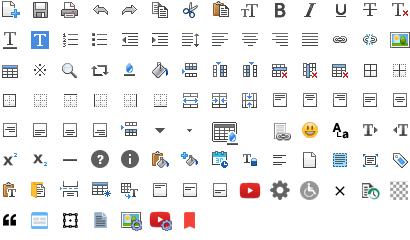
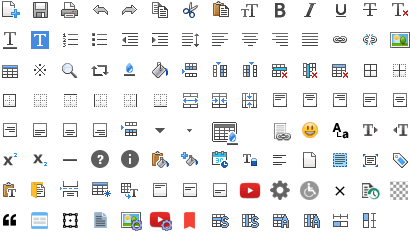
* 쿠쿠닥스 에디터 최신버전으로 업데이트 (ver1.4.30)

diff --git a/src/main/webapp/js/ezEditor/kukudocsEditor/stylesheets/style.css b/src/main/webapp/js/ezEditor/kukudocsEditor/stylesheets/style.css
@@ -159,6 +159,10 @@ body{ font-family:'Arial, MalgunGothic, AppleSDGothic'; font-size:12px; /*margin
 .kk_editor .kk_editor_toolbar .menus .menu .menu_button .i_table_merge { background-position: -180px -90px; }
 .kk_editor .kk_editor_toolbar .menus .menu .menu_button .i_table_split_col { background-position: -210px -90px; }
 .kk_editor .kk_editor_toolbar .menus .menu .menu_button .i_table_split_row { background-position: -240px -90px; }
+
+.kk_editor .kk_editor_toolbar .menus .menu .menu_button .i_cell_horizontal_size { background-position: -331px -211px; }
+.kk_editor .kk_editor_toolbar .menus .menu .menu_button .i_cell_vertical_size { background-position: -360px -211px; }
+
 .kk_editor .kk_editor_toolbar .menus .menu .menu_button .i_fullscreen { background-position: -360px -150px; }
 .kk_editor .kk_editor_toolbar .menus .menu .menu_button .i_video { background-position: -240px -181px; }
 .kk_editor .kk_editor_toolbar .menus .menu .menu_button .i_file { background-position: -272px -123px; }
@@ -1490,6 +1494,11 @@ body{ font-family:'Arial, MalgunGothic, AppleSDGothic'; font-size:12px; /*margin
 .kk_context_menu .context-menu-icon-vertical_align_middle:before { background-position: -180px -180px;}
 .kk_context_menu .context-menu-icon-vertical_align_bottom:before { background-position: -210px -180px;}
 .kk_context_menu .context-menu-icon-vertical_align_baseline:before { background-position: -150px -180px;}
+
+.kk_context_menu .context-menu-icon-calculate_horizontal_sum:before { background-position: -210px -211px; }
+.kk_context_menu .context-menu-icon-calculate_vertical_sum:before { background-position: -240px -211px;}
+.kk_context_menu .context-menu-icon-calculate_horizontal_avg:before { background-position: -271px -211px;}
+.kk_context_menu .context-menu-icon-calculate_vertical_avg:before { background-position: -302px -211px;}
 
 
 